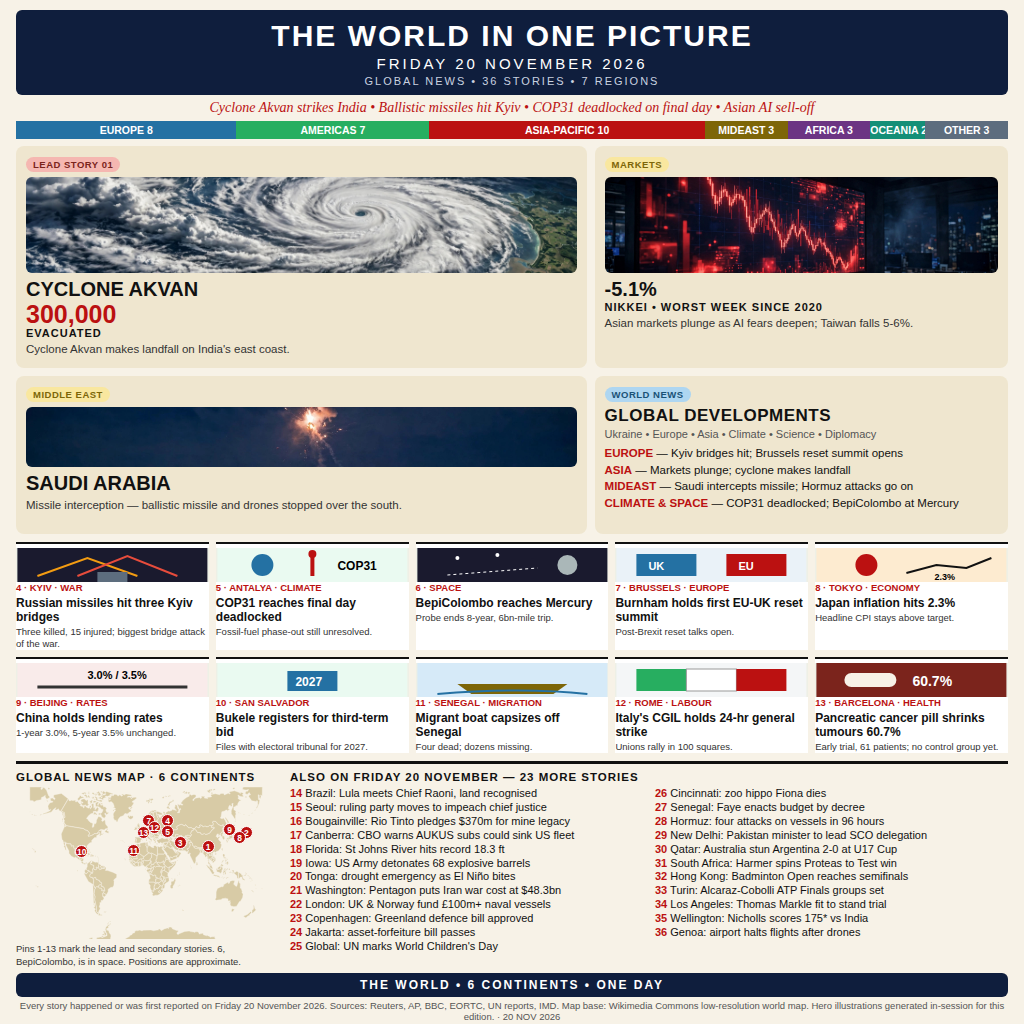
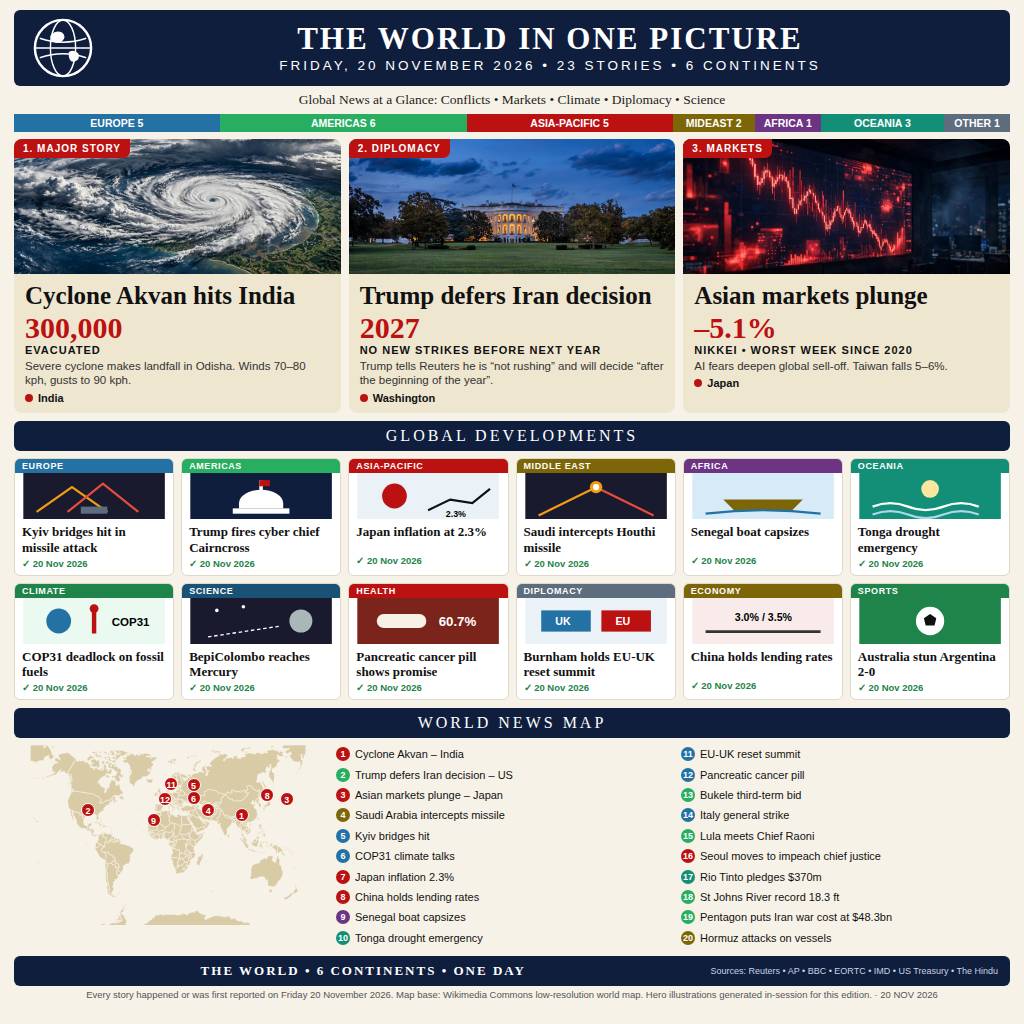
Update entry to v1.7: ChatGPT-reference layout rebuilt in-session, 23 stories

diff --git a/main.py b/main.py
@@ -1,6 +1,11 @@
 #!/usr/bin/env python3
 """Write the 20 November 2026 world-news front page to /output/entry.png.
 
+v1.7: a premium one-page newspaper rebuilt in-session from a reference
+layout (globe masthead, three photo heroes, twelve Global Developments
+cards with date checks, world map with a numbered index). 23 stories,
+every one first reported on Friday 20 November 2026.
+
 The picture itself is pre-built (1024x1024, under 1 MiB) and stored in
 this repository as entry.png. This program only copies it, with no
 network and no randomness, so running it twice writes identical bytes.

diff --git a/README.md b/README.md
@@ -18,56 +18,44 @@ Entered on [make.fun](https://make.fun/?ref=2kckwetd&utm_source=github&utm_mediu
 
 ## The World in One Picture — Friday 20 November 2026
 
-One image summing up 20 November 2026's world news: 36 stories, 3 hero stories with original illustrations (Cyclone Akvan, the Asian market plunge, Saudi Arabia's missile interception), 10 secondary stories, a region bar counting stories per region, an accurate world map with numbered pins in their true places, and a list of 23 more stories.
+One image summing up 20 November 2026's world news: 23 stories, 3 hero stories with original illustrations (Cyclone Akvan, Trump deferring the Iran decision, the Asian market plunge), 12 Global Developments cards each date-checked 20 Nov 2026, a region bar counting stories per region, an accurate world map with numbered pins in their true places and a 20-item index.
 
 `main.py` (Python 3.13, stdlib only, no network) copies the pre-built
 front-page image `entry.png` (1024×1024, under 1 MiB) to
 `/output/entry.png`. Running it twice writes the same bytes.
 
-The image is rendered from HTML/CSS (a newspaper front page with
-original illustrations generated in-session and a public-domain world
-map base) with headless Chromium, so every word is sharp and legible.
+The image is rendered from HTML/CSS (a premium newspaper front page with
+Georgia serif headlines, original illustrations generated in-session and a
+public-domain world map base) with headless Chromium, so every word is sharp
+and legible.
 
-## Stories covered (36)
+## Stories covered (23)
 
 1. Cyclone Akvan hits India — 300,000 evacuated
-2. Asia markets plunge — Nikkei -5.1%, worst week since 2020
-3. Saudi Arabia intercepts Houthi missile
-4. Russian missiles hit three Kyiv bridges
-5. COP31 reaches final day deadlocked
-6. BepiColombo reaches Mercury
-7. Burnham holds first EU-UK reset summit
-8. Japan inflation hits 2.3%
-9. China holds lending rates
-10. Bukele registers for third-term bid
-11. Migrant boat capsizes off Senegal
-12. Italy's CGIL holds 24-hr general strike
-13. Pancreatic cancer pill shrinks tumours 60.7%
-14. Brazil: Lula meets Chief Raoni, land recognised
-15. Seoul: ruling party moves to impeach chief justice
-16. Bougainville: Rio Tinto pledges $370m for mine legacy
-17. Canberra: CBO warns AUKUS subs could sink US fleet
-18. Florida: St Johns River hits record 18.3 ft
-19. Iowa: US Army detonates 68 explosive barrels
-20. Tonga: drought emergency as El Niño bites
-21. Washington: Pentagon puts Iran war cost at $48.3bn
-22. London: UK & Norway fund £100m+ naval vessels
-23. Copenhagen: Greenland defence bill approved
-24. Jakarta: asset-forfeiture bill passes
-25. Global: UN marks World Children's Day
-26. Cincinnati: zoo hippo Fiona dies
-27. Senegal: Faye enacts budget by decree
-28. Hormuz: four attacks on vessels in 96 hours
-29. New Delhi: Pakistan minister to lead SCO delegation
-30. Qatar: Australia stun Argentina 2-0 at U17 Cup
-31. South Africa: Harmer spins Proteas to Test win
-32. Hong Kong: Badminton Open reaches semifinals
-33. Turin: Alcaraz-Cobolli ATP Finals groups set
-34. Los Angeles: Thomas Markle fit to stand trial
-35. Wellington: Nicholls scores 175* vs India
-36. Genoa: airport halts flights after drones
+2. Trump defers Iran decision to 2027
+3. Asian markets plunge — Nikkei -5.1%, worst week since 2020
+4. Saudi Arabia intercepts Houthi missile
+5. Russian missiles hit three Kyiv bridges
+6. COP31 reaches final day deadlocked
+7. Japan inflation hits 2.3%
+8. China holds lending rates
+9. Senegal boat capsizes off Senegal
+10. Tonga drought emergency
+11. Burnham holds first EU-UK reset summit
+12. Pancreatic cancer pill shrinks tumours 60.7%
+13. Trump fires cyber chief Cairncross
+14. BepiColombo reaches Mercury
+15. Australia stun Argentina 2-0 at U17 Cup
+16. Bukele registers for third-term bid
+17. Italy's CGIL holds 24-hr general strike
+18. Brazil: Lula meets Chief Raoni, land recognised
+19. Seoul: ruling party moves to impeach chief justice
+20. Bougainville: Rio Tinto pledges $370m for mine legacy
+21. Florida: St Johns River hits record 18.3 ft
+22. Washington: Pentagon puts Iran war cost at $48.3bn
+23. Hormuz: four attacks on vessels in 96 hours
 
-Sources: Reuters, AP, BBC, EORTC, IMD, UN reports of 20 November 2026. All illustrations are original.
+Sources: Reuters, AP, BBC, EORTC, IMD, UN reports, US Treasury, The Hindu, of 20 November 2026. All illustrations are original.
 
 Built for make.fun bounty `news-image-20261120`.
 See the bounty: https://make.fun/bounty/news-image-20261120
